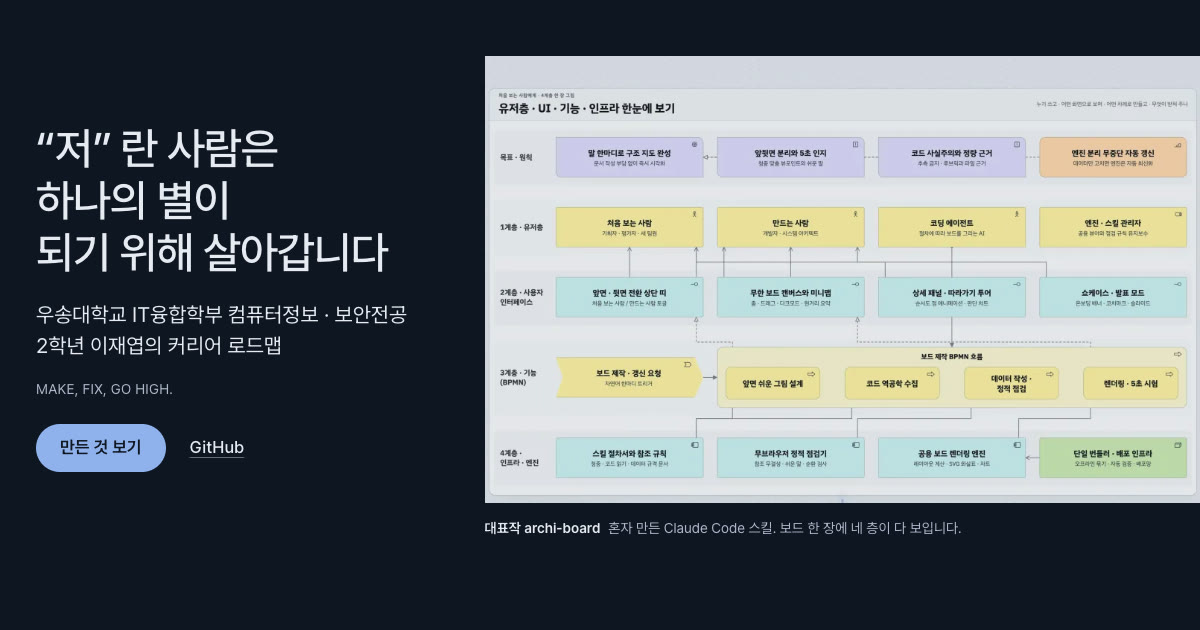
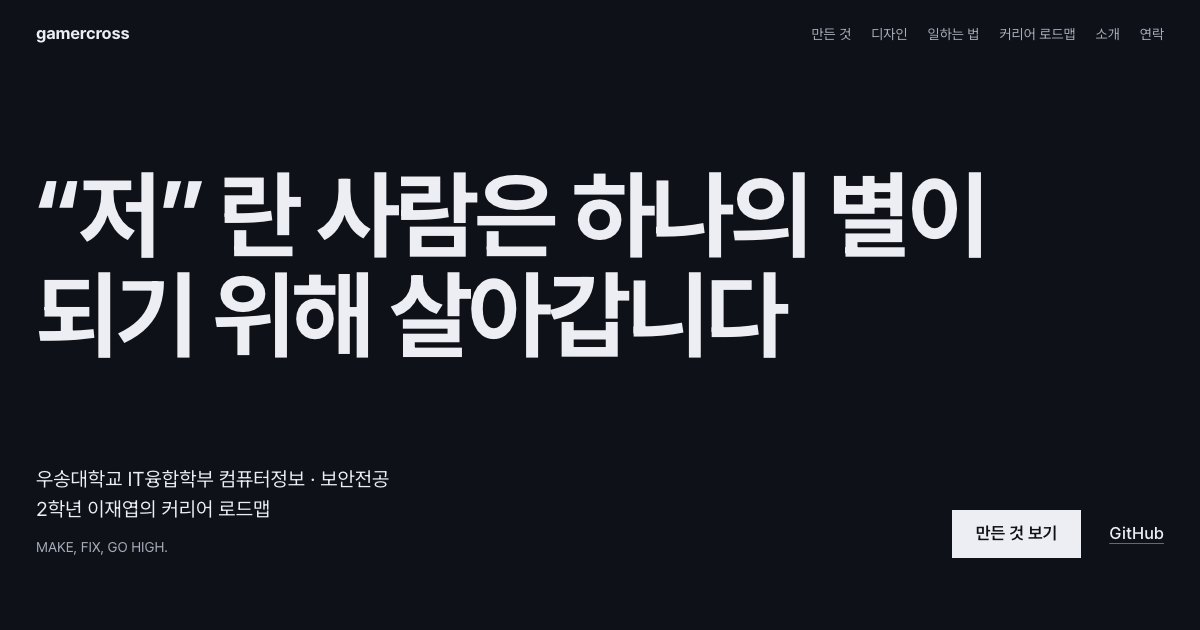
디자인 규칙 · 제품 한 장 · 공유 그림 · 글꼴 무결성 (PELOVA · fixing-metadata)
- _design/DESIGN.md: pelova_design_apply(틀 minimal + 주인 설명)로 다시 쓰고, 표를 실제 값으로
  (바탕 #0E1118 · 강조 #F0DC48 · 모서리 0 · 진행표 줄 · 움직임 · 정한 것)
- _design/PRODUCT.md: impeccable이 읽는 제품 한 장(견본 6 PRODUCT.md + 주인 말, 짐작은 [짐작])
- 공유 그림 og-home · og-how를 새 첫 화면으로 다시 찍고 alt를 맞춤
- Pretendard CSS(v1.3.9 고정)에 integrity sha384, 쓰지 않게 된 재생 표시 SVG 코드 · CSS 지움

diff --git a/index.html b/index.html
@@ -14,7 +14,7 @@
 <meta property="og:image" content="https://gamercross.github.io/assets/img/og-home.jpg">
 <meta property="og:image:width" content="1200">
 <meta property="og:image:height" content="630">
-<meta property="og:image:alt" content="gamercross 포트폴리오 첫 화면. 어두운 바탕에 첫 문장과 archi-board 보드 그림">
+<meta property="og:image:alt" content="gamercross 포트폴리오 첫 화면. 짙은 바탕에 흰 굵은 첫 문장 두 줄">
 <meta property="og:locale" content="ko_KR">
 <meta name="twitter:card" content="summary_large_image">
 <meta name="twitter:creator" content="@gamercross98">
@@ -22,7 +22,7 @@
 <link rel="icon" href="/assets/favicon.svg" type="image/svg+xml">
 <link rel="apple-touch-icon" href="/assets/apple-touch-icon.png">
 <link rel="preconnect" href="https://cdn.jsdelivr.net" crossorigin>
-<link rel="stylesheet" href="https://cdn.jsdelivr.net/gh/orioncactus/pretendard@v1.3.9/dist/web/variable/pretendardvariable-dynamic-subset.min.css" crossorigin="anonymous">
+<link rel="stylesheet" href="https://cdn.jsdelivr.net/gh/orioncactus/pretendard@v1.3.9/dist/web/variable/pretendardvariable-dynamic-subset.min.css" integrity="sha384-GIdEBaqGN9mNkDkMkzMHW8EKUqtpPIe/sLj1X7DIrnc9uPtLROJgmuDlh+3rBw0j" crossorigin="anonymous">
 <link rel="stylesheet" href="/assets/tokens.css">
 <link rel="stylesheet" href="/assets/site.css">
 <script src="/assets/works.js" defer></script>

diff --git a/how-i-work/index.html b/how-i-work/index.html
@@ -14,7 +14,7 @@
 <meta property="og:image" content="https://gamercross.github.io/assets/img/og-how.jpg">
 <meta property="og:image:width" content="1200">
 <meta property="og:image:height" content="630">
-<meta property="og:image:alt" content="일하는 법 쪽 첫 화면. 목표 사다리와 네 가지 틀">
+<meta property="og:image:alt" content="일하는 법 쪽 첫 화면. 제목과 네 가지 틀의 목록">
 <meta property="og:locale" content="ko_KR">
 <meta name="twitter:card" content="summary_large_image">
 <meta name="twitter:creator" content="@gamercross98">
@@ -22,7 +22,7 @@
 <link rel="icon" href="/assets/favicon.svg" type="image/svg+xml">
 <link rel="apple-touch-icon" href="/assets/apple-touch-icon.png">
 <link rel="preconnect" href="https://cdn.jsdelivr.net" crossorigin>
-<link rel="stylesheet" href="https://cdn.jsdelivr.net/gh/orioncactus/pretendard@v1.3.9/dist/web/variable/pretendardvariable-dynamic-subset.min.css" crossorigin="anonymous">
+<link rel="stylesheet" href="https://cdn.jsdelivr.net/gh/orioncactus/pretendard@v1.3.9/dist/web/variable/pretendardvariable-dynamic-subset.min.css" integrity="sha384-GIdEBaqGN9mNkDkMkzMHW8EKUqtpPIe/sLj1X7DIrnc9uPtLROJgmuDlh+3rBw0j" crossorigin="anonymous">
 <link rel="stylesheet" href="/assets/tokens.css">
 <link rel="stylesheet" href="/assets/site.css">
 <script src="/assets/site.js" defer></script>

diff --git a/404.html b/404.html
@@ -13,7 +13,7 @@
 <meta property="og:image" content="https://gamercross.github.io/assets/img/og-home.jpg">
 <meta property="og:image:width" content="1200">
 <meta property="og:image:height" content="630">
-<meta property="og:image:alt" content="gamercross 포트폴리오 첫 화면">
+<meta property="og:image:alt" content="gamercross 포트폴리오 첫 화면. 짙은 바탕에 흰 굵은 첫 문장 두 줄">
 <meta property="og:locale" content="ko_KR">
 <meta name="twitter:card" content="summary_large_image">
 <meta name="twitter:creator" content="@gamercross98">
@@ -21,7 +21,7 @@
 <link rel="icon" href="/assets/favicon.svg" type="image/svg+xml">
 <link rel="apple-touch-icon" href="/assets/apple-touch-icon.png">
 <link rel="preconnect" href="https://cdn.jsdelivr.net" crossorigin>
-<link rel="stylesheet" href="https://cdn.jsdelivr.net/gh/orioncactus/pretendard@v1.3.9/dist/web/variable/pretendardvariable-dynamic-subset.min.css" crossorigin="anonymous">
+<link rel="stylesheet" href="https://cdn.jsdelivr.net/gh/orioncactus/pretendard@v1.3.9/dist/web/variable/pretendardvariable-dynamic-subset.min.css" integrity="sha384-GIdEBaqGN9mNkDkMkzMHW8EKUqtpPIe/sLj1X7DIrnc9uPtLROJgmuDlh+3rBw0j" crossorigin="anonymous">
 <link rel="stylesheet" href="/assets/tokens.css">
 <link rel="stylesheet" href="/assets/site.css">
 <script src="/assets/works.js" defer></script>

diff --git a/design/index.html b/design/index.html
@@ -22,7 +22,7 @@
 <link rel="icon" href="/assets/favicon.svg" type="image/svg+xml">
 <link rel="apple-touch-icon" href="/assets/apple-touch-icon.png">
 <link rel="preconnect" href="https://cdn.jsdelivr.net" crossorigin>
-<link rel="stylesheet" href="https://cdn.jsdelivr.net/gh/orioncactus/pretendard@v1.3.9/dist/web/variable/pretendardvariable-dynamic-subset.min.css" crossorigin="anonymous">
+<link rel="stylesheet" href="https://cdn.jsdelivr.net/gh/orioncactus/pretendard@v1.3.9/dist/web/variable/pretendardvariable-dynamic-subset.min.css" integrity="sha384-GIdEBaqGN9mNkDkMkzMHW8EKUqtpPIe/sLj1X7DIrnc9uPtLROJgmuDlh+3rBw0j" crossorigin="anonymous">
 <link rel="stylesheet" href="/assets/tokens.css">
 <link rel="stylesheet" href="/assets/site.css">
 <script src="/assets/works.js" defer></script>

diff --git a/work/archi-board/index.html b/work/archi-board/index.html
@@ -22,7 +22,7 @@
 <link rel="icon" href="/assets/favicon.svg" type="image/svg+xml">
 <link rel="apple-touch-icon" href="/assets/apple-touch-icon.png">
 <link rel="preconnect" href="https://cdn.jsdelivr.net" crossorigin>
-<link rel="stylesheet" href="https://cdn.jsdelivr.net/gh/orioncactus/pretendard@v1.3.9/dist/web/variable/pretendardvariable-dynamic-subset.min.css" crossorigin="anonymous">
+<link rel="stylesheet" href="https://cdn.jsdelivr.net/gh/orioncactus/pretendard@v1.3.9/dist/web/variable/pretendardvariable-dynamic-subset.min.css" integrity="sha384-GIdEBaqGN9mNkDkMkzMHW8EKUqtpPIe/sLj1X7DIrnc9uPtLROJgmuDlh+3rBw0j" crossorigin="anonymous">
 <link rel="stylesheet" href="/assets/tokens.css">
 <link rel="stylesheet" href="/assets/site.css">
 <script src="/assets/site.js" defer></script>

diff --git a/work/dotci/index.html b/work/dotci/index.html
@@ -22,7 +22,7 @@
 <link rel="icon" href="/assets/favicon.svg" type="image/svg+xml">
 <link rel="apple-touch-icon" href="/assets/apple-touch-icon.png">
 <link rel="preconnect" href="https://cdn.jsdelivr.net" crossorigin>
-<link rel="stylesheet" href="https://cdn.jsdelivr.net/gh/orioncactus/pretendard@v1.3.9/dist/web/variable/pretendardvariable-dynamic-subset.min.css" crossorigin="anonymous">
+<link rel="stylesheet" href="https://cdn.jsdelivr.net/gh/orioncactus/pretendard@v1.3.9/dist/web/variable/pretendardvariable-dynamic-subset.min.css" integrity="sha384-GIdEBaqGN9mNkDkMkzMHW8EKUqtpPIe/sLj1X7DIrnc9uPtLROJgmuDlh+3rBw0j" crossorigin="anonymous">
 <link rel="stylesheet" href="/assets/tokens.css">
 <link rel="stylesheet" href="/assets/site.css">
 <script src="/assets/site.js" defer></script>

diff --git a/work/floe/index.html b/work/floe/index.html
@@ -22,7 +22,7 @@
 <link rel="icon" href="/assets/favicon.svg" type="image/svg+xml">
 <link rel="apple-touch-icon" href="/assets/apple-touch-icon.png">
 <link rel="preconnect" href="https://cdn.jsdelivr.net" crossorigin>
-<link rel="stylesheet" href="https://cdn.jsdelivr.net/gh/orioncactus/pretendard@v1.3.9/dist/web/variable/pretendardvariable-dynamic-subset.min.css" crossorigin="anonymous">
+<link rel="stylesheet" href="https://cdn.jsdelivr.net/gh/orioncactus/pretendard@v1.3.9/dist/web/variable/pretendardvariable-dynamic-subset.min.css" integrity="sha384-GIdEBaqGN9mNkDkMkzMHW8EKUqtpPIe/sLj1X7DIrnc9uPtLROJgmuDlh+3rBw0j" crossorigin="anonymous">
 <link rel="stylesheet" href="/assets/tokens.css">
 <link rel="stylesheet" href="/assets/site.css">
 <script src="/assets/site.js" defer></script>

diff --git a/work/minimall/index.html b/work/minimall/index.html
@@ -22,7 +22,7 @@
 <link rel="icon" href="/assets/favicon.svg" type="image/svg+xml">
 <link rel="apple-touch-icon" href="/assets/apple-touch-icon.png">
 <link rel="preconnect" href="https://cdn.jsdelivr.net" crossorigin>
-<link rel="stylesheet" href="https://cdn.jsdelivr.net/gh/orioncactus/pretendard@v1.3.9/dist/web/variable/pretendardvariable-dynamic-subset.min.css" crossorigin="anonymous">
+<link rel="stylesheet" href="https://cdn.jsdelivr.net/gh/orioncactus/pretendard@v1.3.9/dist/web/variable/pretendardvariable-dynamic-subset.min.css" integrity="sha384-GIdEBaqGN9mNkDkMkzMHW8EKUqtpPIe/sLj1X7DIrnc9uPtLROJgmuDlh+3rBw0j" crossorigin="anonymous">
 <link rel="stylesheet" href="/assets/tokens.css">
 <link rel="stylesheet" href="/assets/site.css">
 <script src="/assets/site.js" defer></script>

diff --git a/assets/tokens.css b/assets/tokens.css
@@ -2,7 +2,7 @@
    포트폴리오(gamercross.github.io)와 커리어 로드맵이 같이 쓴다. 값의 뜻은 _design/DESIGN.md.
    결: 방송실과 대회 무대 — 짙은 바탕 위 흰 굵은 글자, 진행표처럼 가지런한 줄.
    글꼴: 이 파일보다 먼저 Pretendard를 불러 둔다.
-   <link rel="stylesheet" href="https://cdn.jsdelivr.net/gh/orioncactus/pretendard@v1.3.9/dist/web/variable/pretendardvariable-dynamic-subset.min.css" crossorigin="anonymous"> */
+   <link rel="stylesheet" href="https://cdn.jsdelivr.net/gh/orioncactus/pretendard@v1.3.9/dist/web/variable/pretendardvariable-dynamic-subset.min.css" integrity="sha384-GIdEBaqGN9mNkDkMkzMHW8EKUqtpPIe/sLj1X7DIrnc9uPtLROJgmuDlh+3rBw0j" crossorigin="anonymous"> */
 
 :root {
   color-scheme: dark;

diff --git a/assets/site.js b/assets/site.js
@@ -34,8 +34,6 @@ const reduce = matchMedia('(prefers-reduced-motion: reduce)').matches;
     } else if (w.img) {
       const im = new Image(w.w, w.h); im.src = w.img; if (w.srcset) { im.srcset = w.srcset; im.sizes = '(max-width: 760px) 92vw, 46vw'; }
       im.alt = w.alt || ''; im.loading = 'lazy'; im.decoding = 'async'; box.append(im);
-    } else {
-      box.insertAdjacentHTML('beforeend', '<svg class="playmark" viewBox="0 0 48 48" aria-hidden="true"><circle cx="24" cy="24" r="23"/><path d="M19 15.5v17a1 1 0 0 0 1.5.86l14-8.5a1 1 0 0 0 0-1.72l-14-8.5A1 1 0 0 0 19 15.5z"/></svg>');
     }
     return box;
   };

diff --git a/assets/site.css b/assets/site.css
@@ -150,10 +150,6 @@ input, textarea { caret-color: var(--accent); }
 .work .line { margin-top: 4px; }
 .work .award { margin-top: 8px; font-weight: 600; }
 .work .meta { margin-top: 4px; font-size: var(--t-s); color: var(--faint); }
-.playmark { width: 48px; height: 48px; }
-.playmark circle { fill: var(--surface-2); }
-.playmark path { fill: var(--muted); transition: fill var(--t-fast) var(--ease); }
-.work:hover .playmark path { fill: var(--ink); }
 .after { margin-top: 48px; }
 
 /* 그 밖에 끝낸 것: 그림 없이 진행표 줄 */

diff --git a/_design/DESIGN.md b/_design/DESIGN.md
@@ -1,55 +1,82 @@
-# gamercross 디자인 규칙 — 어두운 판
+# 디자인 베이스: gamercross 어두운 판 (펠로바 "미니멀" 틀에서)
 
-gamercross.github.io와 커리어 로드맵이 같이 따르는 규칙이다. 화면의 값은 `assets/tokens.css`에 있다.
-결: 어두운 방에 작품을 하나씩 밝혀 둔다. 바탕은 위에서 아래까지 하나, 그림이 그 안에서 가장 밝다.
+> 이 사이트(gamercross.github.io)와 커리어 로드맵의 모든 화면은 아래 기준을 따른다. 값은 `assets/tokens.css`에 있다.
+> 2026-11-26 펠로바 `pelova_design_apply`(틀 minimal + 주인 설명)로 다시 쓰고, 틀의 기본값(흰 바탕 · 8px 모서리 · 1px 선)을 아래 "원래 설명"대로 바꿔 적었다. 근거 기록은 `.standard/v5-unslop/`(커밋하지 않는 작업 기록).
+
+분위기: 고교 방송실과 대회 무대. 짙은 바탕 위 흰 굵은 글자, 대회 진행표처럼 가지런한 줄. 크게 말하는 곳은 첫 화면 다짐 하나, 가장 밝은 것은 작품 그림.
 
 ## 색
 
 | 이름 | 값 | 쓰는 곳 |
 |---|---|---|
-| 바탕 `--bg` | #0F1522 | 화면 바탕(아주 짙은 남색, 순검정 아님) |
-| 판 `--surface` | #161E2E | 그림 칸 · 판 · 거르기 단추 |
-| 한 톤 위 판 `--surface-2` | #1D2638 | 단추를 올렸을 때 · 그림 속 칸 |
-| 글자 `--ink` | #E6EAF2 | 제목 · 본문(순백 아님) |
-| 보조 글자 `--muted` | #AEB7CA | 설명 · 날짜 · 맺음 이름 |
-| 강조 `--accent` | #8FB1EC | 채운 단추 · 고른 거르기 단추 · 초점 테 · 그림의 시작 칸 |
-| 강조 위 글자 `--on-accent` | #0F1522 | 채운 단추 글자 |
+| 바탕 `--bg` | #0E1118 | 화면 바탕 (짙은 바탕, 순검정 아님) |
+| 그림 칸 `--surface` | #151922 | 그림 칸 · 소개 구역 색 마당 (판 · 카드로 쓰지 않는다) |
+| 한 톤 위 `--surface-2` | #1C212C | 그림 속 상자 · 폰 메뉴 단추 · 네 칸 표의 칸 |
+| 글자 `--ink` | #ECEEF3 | 제목 · 본문 · 채운 단추 바탕 (순백 아님) |
+| 설명 `--muted` | #A6ADBB | 설명 · 캡션 · 맺음 |
+| 옅은 글 `--faint` | #858C9B | 해 · 숫자 · 메타 |
+| 강조 `--accent` | #F0DC48 | 결승 화면 OFFLINE 붓글씨의 노랑. 초점 테 · 고른 거르기 밑줄 · 지금 쪽 밑줄 · 그림의 시작 칸에만 |
+| 강조 위 글자 `--on-accent` | #0E1118 | 노랑 칸 위 글자 |
+| 채운 단추 위 글자 `--on-ink` | #0E1118 | 흰 기 단추 글자 |
+| 표의 줄 `--line` | 글자색 12% | 진짜 표(도구 표)의 줄 사이에만 |
 
-- 글자 대비: 본문 12.5:1 이상, 보조 글자 4.5:1 이상.
-- 강조 색은 단추와 고른 것에만 쓴다. 낱말을 색칠하지 않는다.
+- 대비: 글자 16.3:1 · 설명 8.4:1 · 옅은 글 5.6:1(바탕) · 5.2:1(그림 칸) · 4.8:1(한 톤 위) · 노랑 13:1.
+- 강조는 한 화면에 몇 군데, 면으로 넓게 쓰지 않는다. 낱말을 색칠하지 않는다.
+- 대회 포스터의 빨강 · 파랑 · 노랑은 그림 안에만 둔다(틀에 칠하지 않는다).
 
-## 글꼴 · 글자 단계
+## 글꼴
 
-- Pretendard 한 가족(가변 글꼴, jsDelivr v1.3.9 고정). 없으면 시스템 고딕.
-- 굵기 400 · 500 · 600. 제목은 500, 글자 사이 -0.025em.
-- 단계 다섯: 맺음 이름 56 ~ 196px · 큰 제목 28 ~ 48px · 부제 21px · 본문 17px · 작은 글 14px. 작품 쪽 이름만 40 ~ 84px.
-- 제목은 어느 너비에서나 두 줄 이하.
+- Pretendard 한 가족(가변, jsDelivr v1.3.9 고정). 없으면 시스템 고딕. — 펠로바 틀의 "인터넷 글꼴 쓰지 않음"과 다르게 둔 것: 주인이 고른 글꼴(앞 판부터)이라 그대로.
+- 굵기: 첫 화면 다짐 · 연락 줄 · 작품 쪽 이름 700(포스터 결), 제목 600, 본문 400.
+- 단계 다섯: 다짐 29 – 96px · 큰 제목 28 – 48px · 부제 20px · 본문 17px · 작은 글 14px.
+- 자간: 28px 이상 큰 글자만 −0.03 ~ −0.04em(−0.04em이 바닥), 작은 글 0. 숫자는 tabular.
+- 제목은 어느 너비에서나 두 줄 이하, `text-wrap: balance`. 본문 · 인용 · 목록은 `text-wrap: pretty`.
 
-## 간격 · 모서리
+## 간격 · 모서리 · 그림자
 
-- 4px 단위. 구역 사이 96 ~ 168px, 바깥 여백 16 ~ 40px 한 쌍, 열 12개 · 사이 24px.
-- 모서리: 그림 · 판 0(각지게), 단추만 999px.
-- 그림자 · 빛 번짐 · 그라데이션 · 1px 테 상자 · 유리 흐림 없음. 판은 한 톤 차이로만 나눈다.
+- 4px 단위. 구역 사이 96 – 144px, 바깥 여백 16 – 40px 한 쌍, 열 12개 · 사이 24px.
+- 모서리: 그림 · 단추 모두 0(각지게). 알약 꼴 없음.
+- 그림자 · 빛 번짐 · 그라데이션 · 유리 흐림 · 1px 테 상자 없음. 묶음은 간격과 한 톤 차이로만 나눈다.
 
-## 그림
+## 아이콘 · 문구
 
-- 실제 작품 화면 · 포스터 · 방송 화면을 틀 없이 판 위에 놓는다. 기기 틀은 쓰지 않는다.
-- 밝은 화면 그림은 바탕에 맞춰 밝기를 조금 낮춘다(brightness .92).
-- 첫 그림은 `fetchpriority="high"`, 나머지는 `loading="lazy"`. webp, 쓰는 너비에 맞춘 두 크기(srcset).
-- 사람 얼굴 · 이름 · 학생 번호가 보이는 그림은 픽셀을 바꿔 가린 뒤에만 싣는다(CSS 흐림으로 가리지 않는다).
-- 일하는 법 같은 틀은 실제 앱 화면을 찍지 않고 SVG로 그린다(마감 · 일정 · 이름이 비치지 않게).
+- 아이콘은 셋뿐(메뉴 단추 + · 영상 재생 · 멈춤), SVG 선 굵기 1.5. 이모지 · 글리프 줄 금지.
+- 문구: 주인 말 그대로(첫 문장 · MAKE, FIX, GO HIGH. · 좌우명 · 걸어온 길 · 인용). 짧은 이름표 · 단추 글에는 마침표를 찍지 않는다.
+
+## 배치 원칙
+
+- 첫 화면은 글자만: 다짐 두 줄이 가장 크고, 아래 왼쪽에 소개 한 줄 · 서명, 오른쪽에 단추 하나 + 밑줄 링크 하나.
+- 그림은 그 아래에서 크게 · 적게. 실제 작품 화면 · 포스터 · 방송 화면을 틀 없이 그림 칸 위에. 기기 틀 없음.
+- 서명(이 사이트만의 꼴): **진행표 줄** — 목록은 해 · 이름 · 맡은 일이 같은 세 자리에서 시작한다. 줄 사이에 선을 긋지 않는다. 쓰는 곳: 그 밖에 끝낸 것 · 걸어온 길 · 연락의 다른 곳 · 작품 쪽 한눈에 · 열어 보기 · 404 · 일하는 법 목차.
+- 색 마당은 소개 구역 하나(화면 너비 띠, 판이 아님).
+- 연락은 계정 넷을 큰 줄(40 – 88px, 700)로.
+- PC 넓은 화면이 기본(바깥 틀 1360px), 760px 아래에서는 한 줄로 쌓는다. 가로 넘침 없음.
+- 글자와 바탕 대비 4.5:1 이상, 누르는 곳은 44px 이상, 키보드로 모두 되고 초점 테(노랑 2px)가 보인다.
 
 ## 움직임
 
-- 투명도 · 위치만, 0.5 ~ 0.6초, 한 번. 구역 안 부분이 70ms씩 차례로 떠오른다.
-- 첫 문장의 낱말은 두 번 바뀌고 5초 안에 멈춘다.
-- 움직이는 그림은 보일 때만 소리 없이 되풀이, 멈춤 단추가 있다.
-- `prefers-reduced-motion`이면 모두 끈다. 뛰는 움직임은 쓰지 않는다.
+- 투명도 · 위치만, 한 번. 곡선 하나(`--ease`), 되먹임 .16s · 들어오기 .5s.
+- 서명 움직임: 첫 화면 다짐이 줄마다 제 밑줄 뒤에서 올라온다(.9s, 둘째 줄 .11s 뒤). 첫 문장의 낱말은 두 번 바뀌고 5초 안에 멈춘다.
+- 구역 안 부분은 70ms씩 차례로 16px 떠오른다(제목은 흐려지지 않고 올라오기만).
+- 움직이는 그림은 보일 때만 소리 없이 되풀이, 멈춤 단추. `prefers-reduced-motion`이면 모두 끈다. 뛰는 움직임 · hover 확대 없음.
 
-## 짜임
+## 그림
 
-- 위 메뉴: 만든 것 · 디자인 · 일하는 법 · 커리어 로드맵 · 소개 · 연락. 폰(760px 이하)에서는 메뉴 단추 + 펼침(Esc로 닫힘).
-- 맺음: 큰 이름 gamercross, 작은 서명 MAKE, FIX, GO HIGH., 바깥 계정(GitHub · LinkedIn · Instagram · X).
-- 작품 목록은 `assets/works.js` 한 곳, 한 줄 = 작품 하나. 첫 장과 디자인 쪽이 갈래(개발 · 그래픽 · 영상)로 거른다.
-- 누르는 곳은 44px 이상, 키보드로 모두 된다, 초점 테가 보인다.
-- 글은 주인 말 그대로 둔다.
+- 첫 그림 외에는 `loading="lazy"`, webp, 쓰는 너비에 맞춘 두 크기(srcset). 영상도 `loading="lazy"` · `preload="none"`.
+- 사람 얼굴 · 이름 · 학생 번호가 보이는 그림은 픽셀을 바꿔 가린 뒤에만 싣는다. 얼굴이 또렷한 영상 썸네일은 쓰지 않고 글 한 줄로 둔다.
+- 일하는 법 같은 틀은 실제 앱 화면을 찍지 않고 SVG로 그린다.
+
+## 사용자가 넣은 원래 설명
+
+아래 내용이 위 표와 다르면 아래 내용을 우선한다.
+
+주인(이재엽, gamercross) 말과 고른 것 (2026-11-26): "왜이렇게 AI 티가 많이 나는거지? 제발 디자인 스킬들을 이용해줘 mcp pelova 도 이용해서 디자인 좀 수정해봐". 결: 고교 방송실과 대회 무대 — 짙은 바탕 위 흰 굵은 글자(경상롤드컵 결승 포스터 · OFFLINE 방송 화면), 대회 진행표처럼 가지런한 줄. 어두운 판(순검정 면 아님). 색: 바탕 #0E1118, 그림 칸 #151922, 한 톤 위 #1C212C, 글자 #ECEEF3(순백 아님), 설명 #A6ADBB, 옅은 글 #858C9B, 강조 #F0DC48(OFFLINE 붓글씨 노랑, 초점 테 · 고른 거르기 밑줄 · 그림 시작 칸에만, 면으로 넓게 쓰지 않음), 강조 위 글자 #0E1118, 채운 단추 = 글자색 #ECEEF3 바탕 + #0E1118 글자. 글꼴: Pretendard 한 가족(jsDelivr v1.3.9). 첫 화면 다짐 700 · 큰 제목 600 · 본문 400, 단계 다섯(다짐 29–96px · 큰 제목 28–48 · 부제 20 · 본문 17 · 작은 글 14), 큰 글자 자간 −0.03 ~ −0.04em, 작은 글 0. 모서리: 그림 · 단추 모두 0(각지게). 그림자 · 빛 번짐 · 그라데이션 · 유리 흐림 없음. 쓰지 않는 것(주인이 AI 티라고 한 것): 칩 · 알약 배지 · 알약 단추 줄, 1px 테 카드, 글리프 아이콘 줄, 제목 위 작은 머리말(대문자 · 넓은 자간), 그라데이션 글자, IBM Plex 같은 Claude 느낌 글꼴. 도트 · 슬라임 · 뛰는 움직임 없음. 첫 문장 · MAKE, FIX, GO HIGH.(작게) · 좌우명 · 걸어온 길 · 인용은 주인 말 그대로. 메뉴 여섯: 만든 것 · 디자인 · 일하는 법 · 커리어 로드맵 · 소개 · 연락.
+
+## 정한 것
+
+- 2026-11-26 위 메뉴: 만든 것 · 디자인 · 일하는 법 · 커리어 로드맵 · 소개 · 연락. 폰(760px 이하)에서는 메뉴 단추 + 펼침(Esc로 닫힘).
+- 2026-11-26 맺음은 한 줄: 이름 gamercross · 이재엽 · 2026 · MAKE, FIX, GO HIGH. · 메뉴 · 바깥 계정 넷. 화면 너비 큰 이름은 쓰지 않는다.
+- 2026-11-26 작품 목록은 `assets/works.js` 한 곳, 한 줄 = 작품 하나. 첫 장과 디자인 쪽이 갈래(개발 · 그래픽 · 영상)로 거른다. 거르기는 글자 탭 + 옅은 숫자, 고른 것은 노랑 밑줄. `design: false`는 디자인 쪽에서 뺌, `award`는 칸에 글자색 한 줄.
+- 2026-11-26 디자인 쪽 격자: 그래픽 두 칸씩 · 영상 네 칸씩, 하나가 남으면 마지막 셋을 세 칸 줄로.
+- 2026-11-26 작품 쪽 "한눈에"는 진행표 줄 + 상 · 결과 한 줄(크게) + 숫자 한 줄. 숫자 판(큰 숫자 2×2)은 쓰지 않는다.
+- 2026-11-26 폰 첫 장에서는 보드 앞면 전체 그림을 숨긴다(글씨가 너무 작음). 작품 칸이 보드를 다른 면으로 보여 준다.
